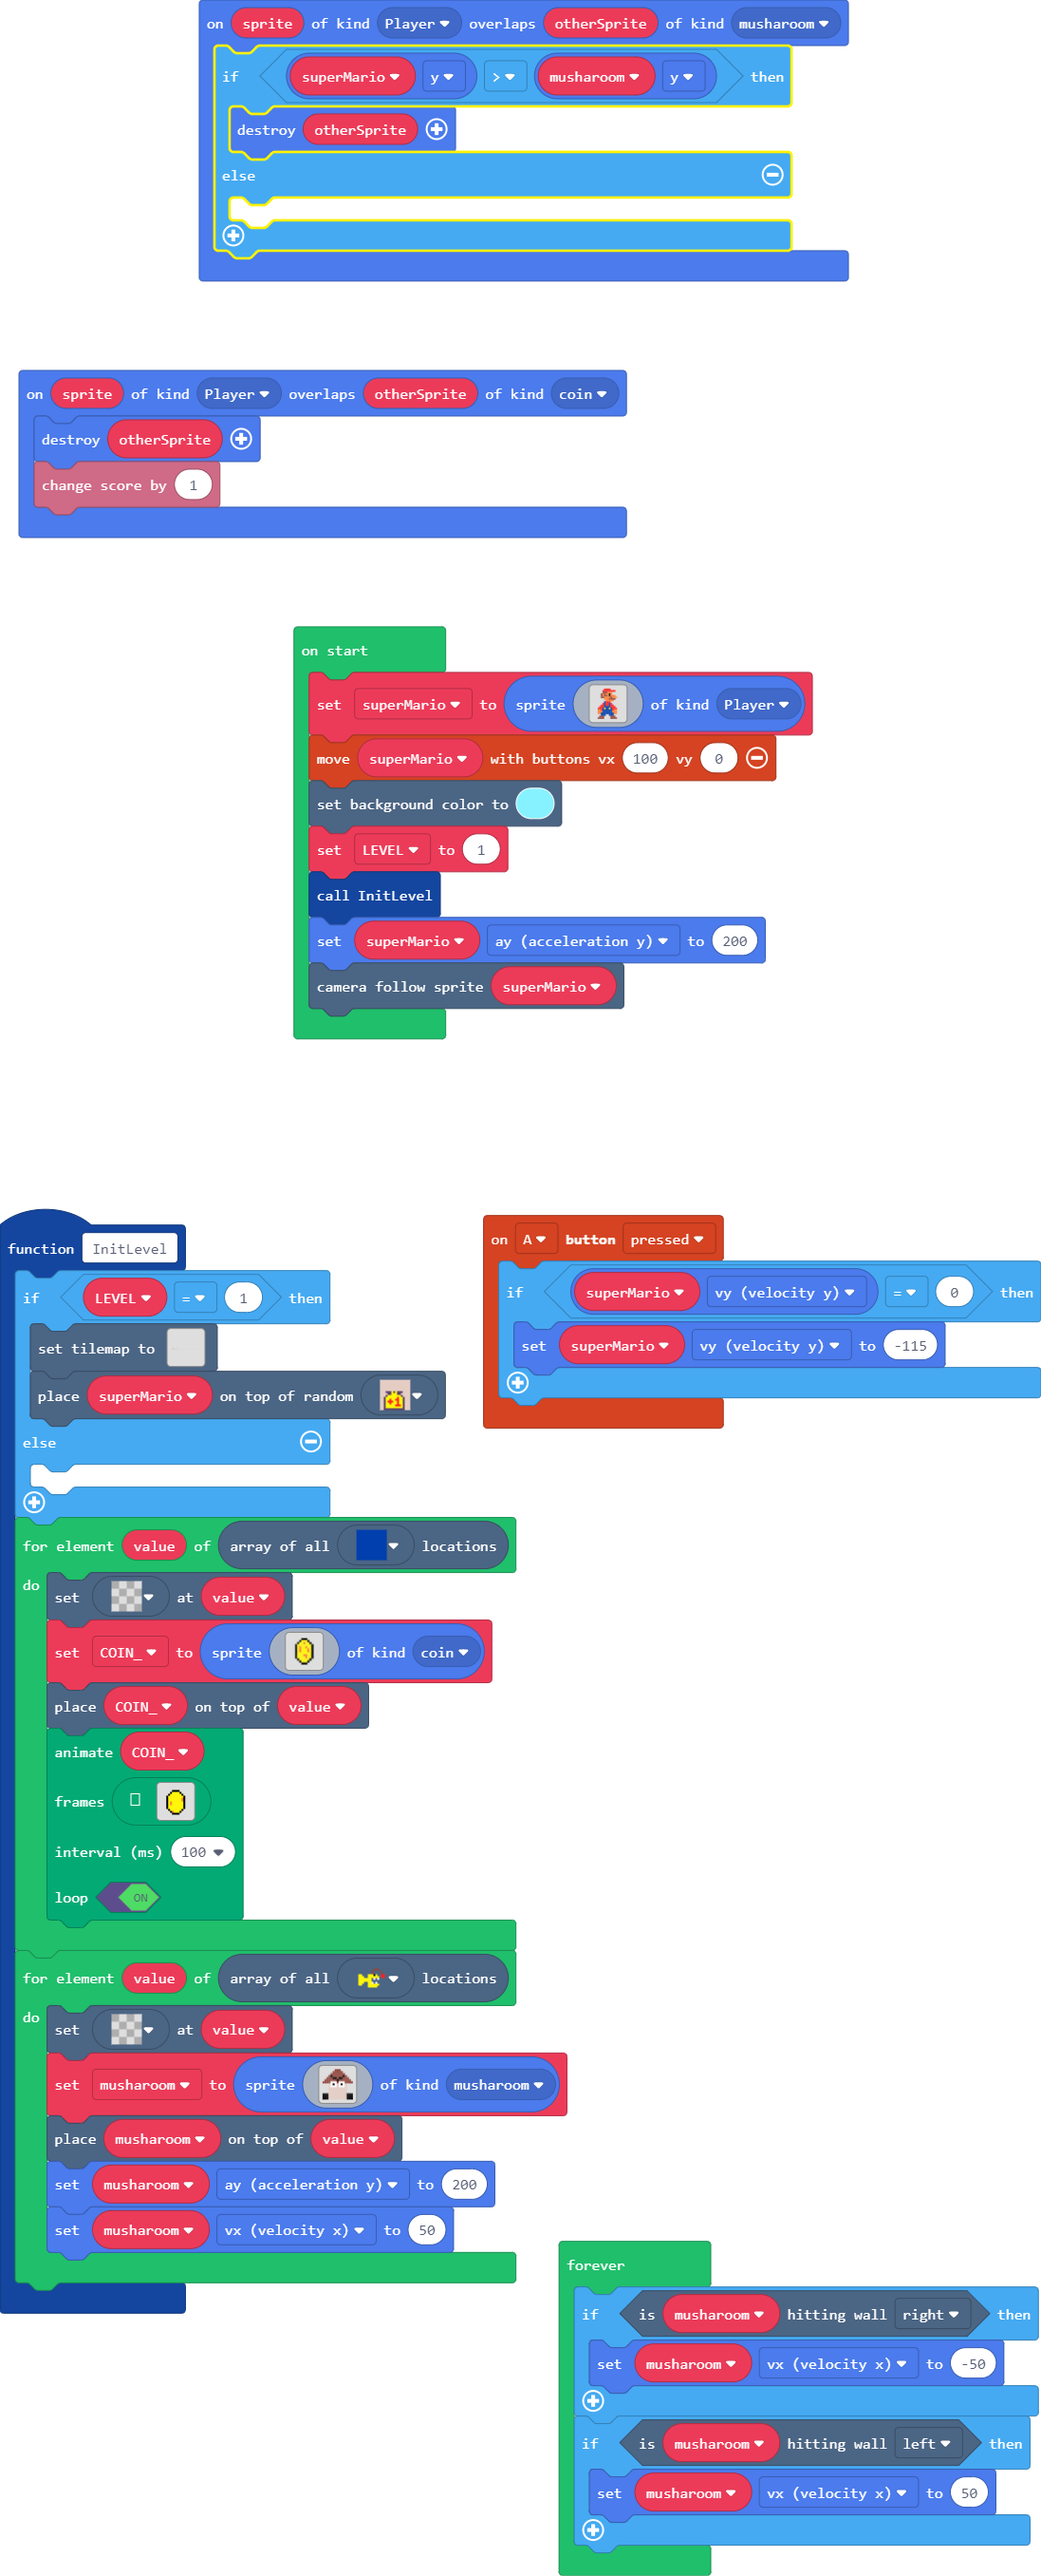
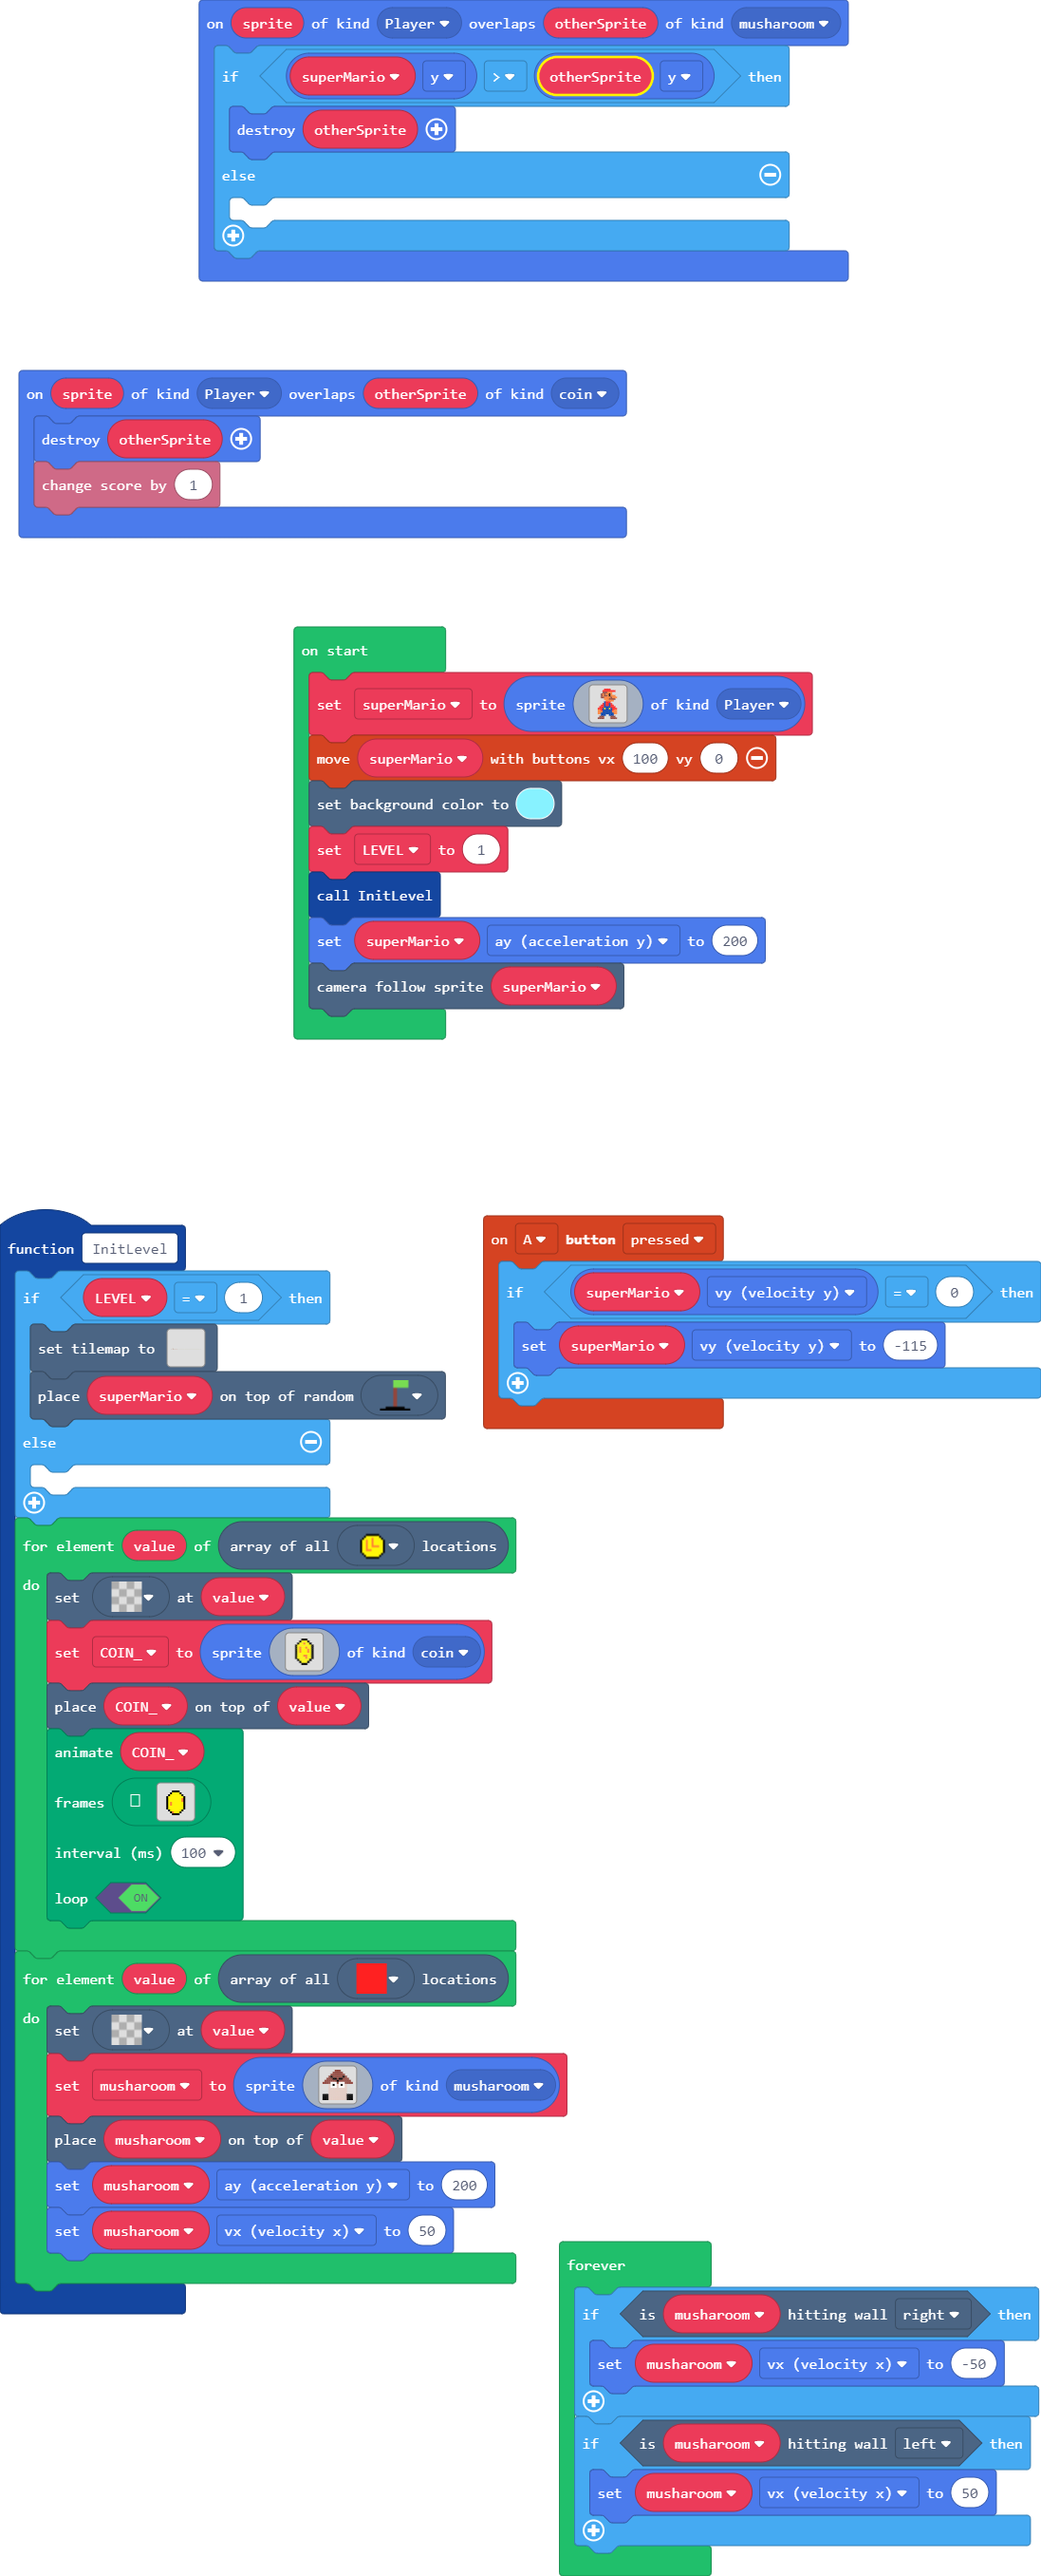
enemy

diff --git a/main.ts b/main.ts
@@ -109,7 +109,7 @@ controller.A.onEvent(ControllerButtonEvent.Pressed, function () {
     }
 })
 sprites.onOverlap(SpriteKind.Player, SpriteKind.musharoom, function (sprite, otherSprite) {
-    if (superMario.y > musharoom.y) {
+    if (superMario.y > otherSprite.y) {
         otherSprite.destroy()
     } else {
     	
@@ -338,8 +338,8 @@ f f f d d d d d d d d d f f f
         musharoom.vx = 50
     }
 }
-let COIN_: Sprite = null
 let musharoom: Sprite = null
+let COIN_: Sprite = null
 let LEVEL = 0
 let superMario: Sprite = null
 superMario = sprites.create(img`
